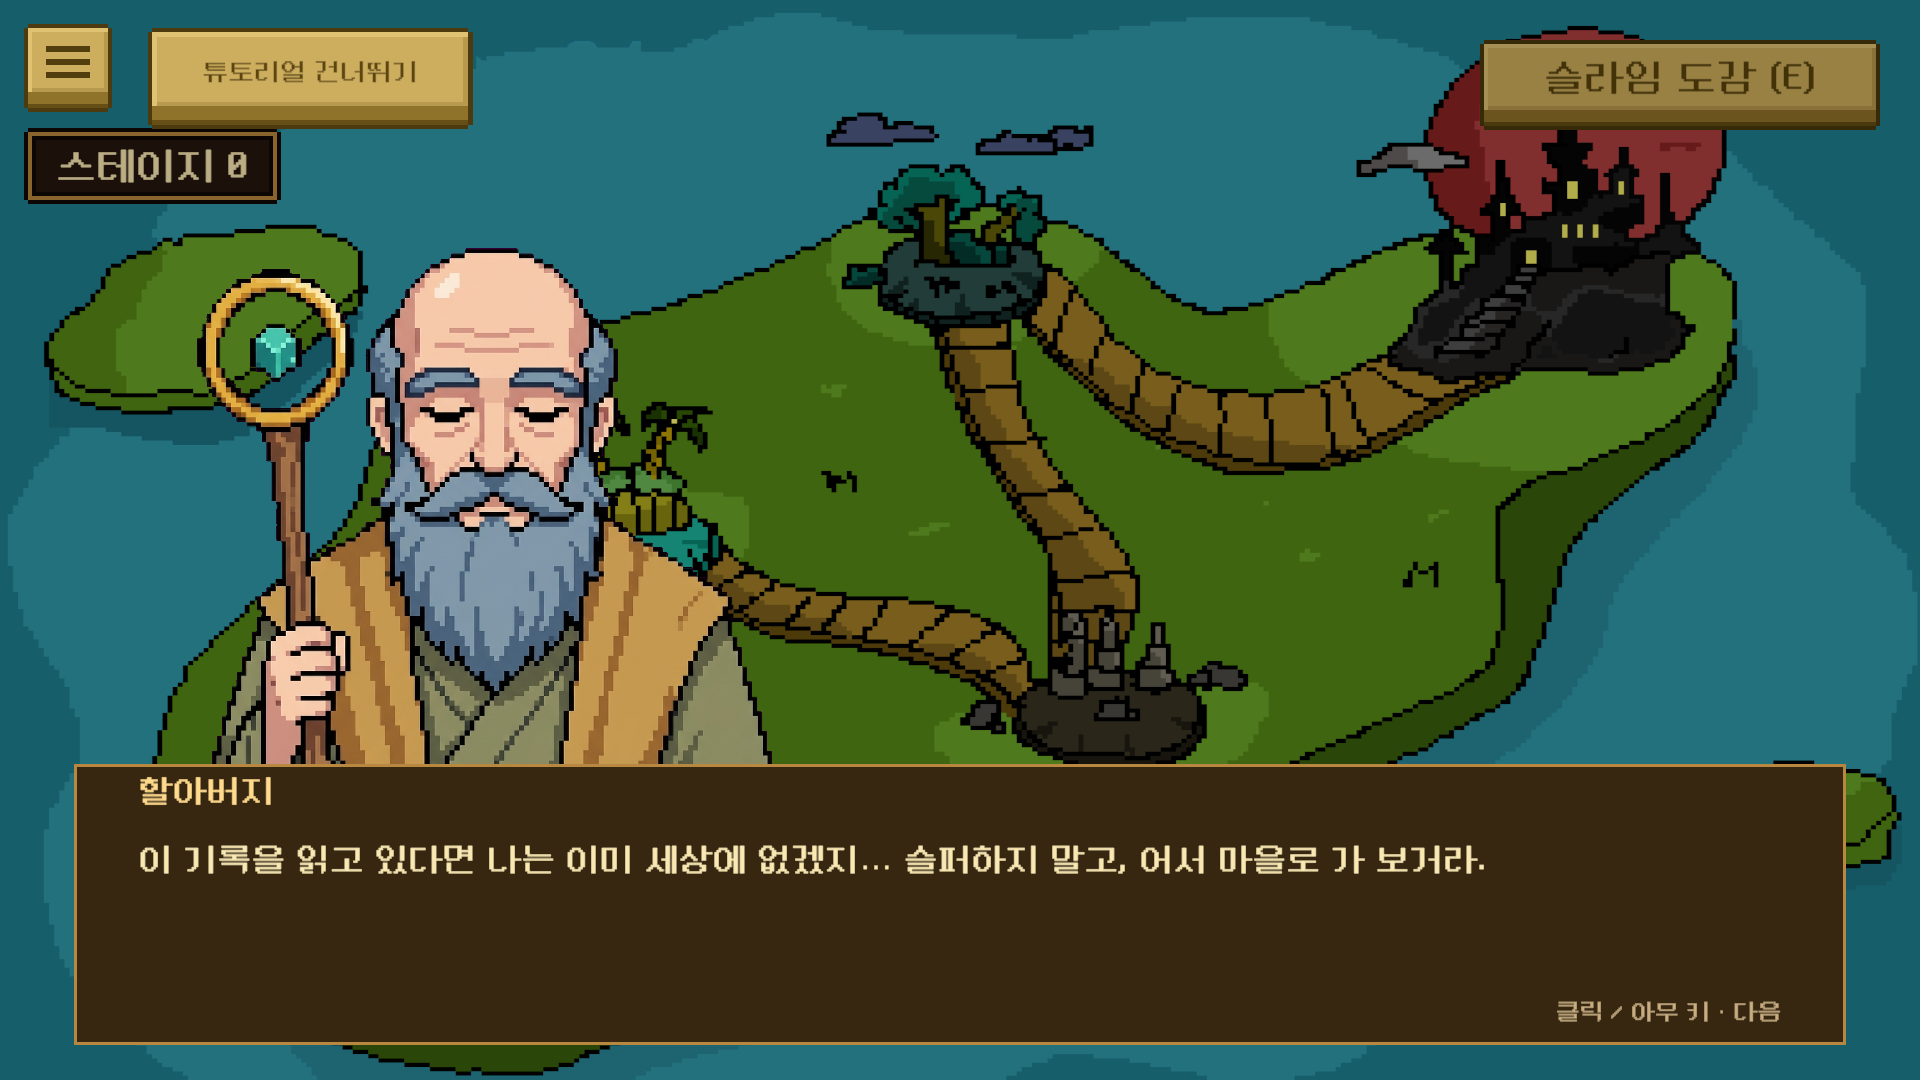
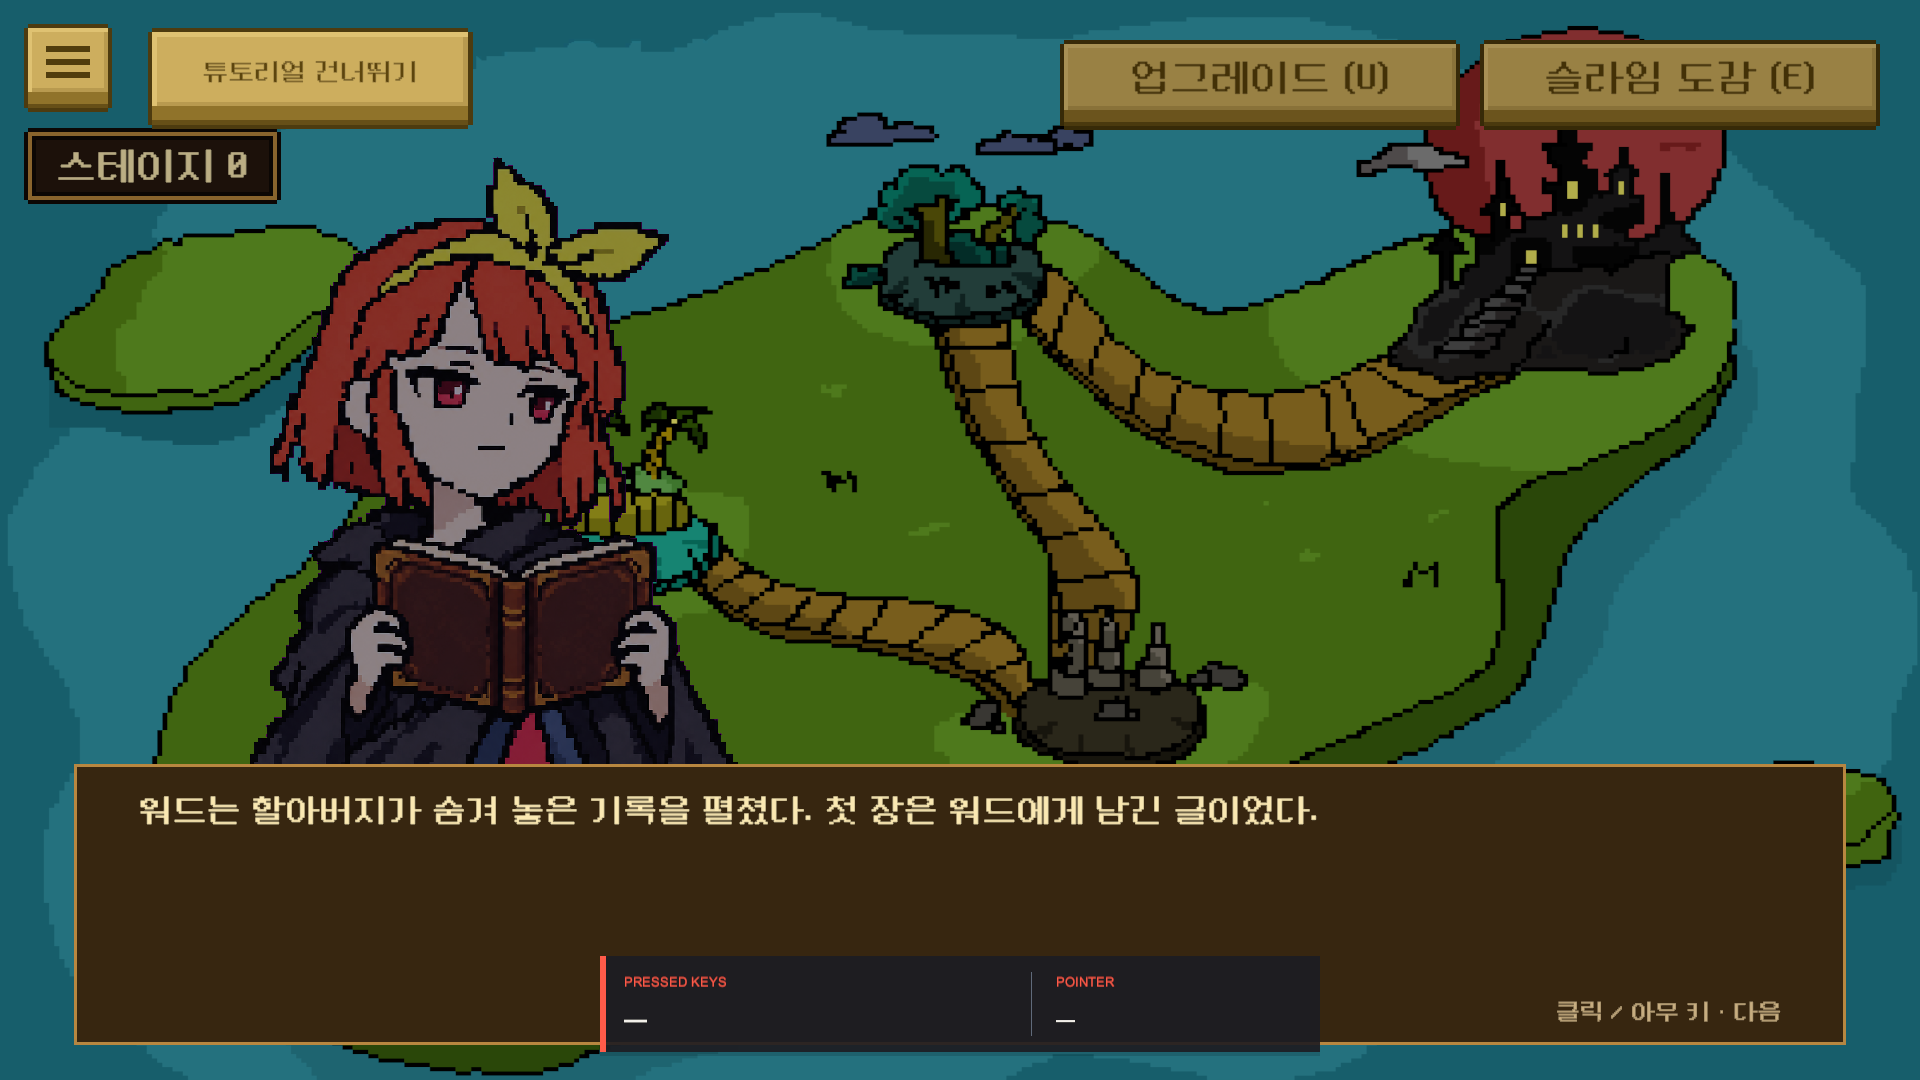
docs: 공통 대화창과 튜토리얼 캡처 갱신

Changed region(s): [[0.0625, 0.1528, 0.7812, 0.825], [0.3125, 0.8861, 0.6875, 0.9778], [0.5312, 0.0306, 0.7812, 0.1222]]

diff --git a/.plan/general/2026-10-27-tutorial-record-speaker.md b/.plan/general/2026-10-27-tutorial-record-speaker.md
@@ -1,0 +1,38 @@
+# 2026-10-27 — 튜토리얼 할아버지 기록 화자 표시
+
+- Date: 2026-10-27
+- GitHub Issue: None (자동 승인 검토에서 외부 이슈 게시 거절)
+- Status: Implemented locally
+
+## Goal
+튜토리얼의 할아버지 기록을 워드의 말과 구분한다.
+
+## Non-goals
+진행 조건 변경, 음악 PR 변경, 머지 및 배포.
+
+## Context / Constraints
+13개 대사의 이름이 비어 있고 워드 초상화가 화자로 강조된다.
+공통 대화창의 이름 표시 및 listenerColor를 재사용한다.
+영문 번역 Grandpa's Notes는 이미 등록되어 있다.
+추가 피드백: 주민 대화 뒤에도 결과 안내 기록이 이어지므로 기록 전체가 끝났다는 표현을 제거한다.
+튜토리얼 마지막은 기초 설명의 마무리와 다음 장 안내로 바꾸고, 주민 대화는 잠시 기록을 되새기는 장면으로 연결한다. 영어 번역도 함께 수정한다.
+외부 이슈 등록 거절로 브랜치/커밋/PR 작업은 보류한다.
+
+## Approach (Checklist)
+- [x] **Step 0: Recon** — 데이터와 공통 대화창, 번역 확인.
+- [x] **Step 1: Implementation** — 13개 화자 이름 지정, 워드 초상화 청자 밝기 적용.
+- [ ] **Step 2: Tests** — 데이터 검증, Unity의 이름 및 초상화 표시 확인.
+- [ ] **Step 3: Rollout / Rollback** — 검토 후 별도 수정 PR, 필요시 해당 변경만 복원.
+
+## Validation
+- **Commands to run:** git diff --check; Unity EditMode TutorialTests 및 PlayMode SharedDialoguePlayTests.
+- **Expected output:** 화자 이름과 초상화 검증 통과. 도입은 이름 숨김, 기록은 화자 표시.
+- **Results:** git diff --check 통과. 13개 화자 지정 및 기존 영어 번역 확인. 기존 EditMode/PlayMode 검증에 이름과 청자 밝기 확인 추가.
+- **Unavailable:** Unity batchmode 실행은 HandleProjectAlreadyOpenInAnotherInstance로 중단. 테스트 결과와 실제 화면 캡처는 확보하지 못함. 열린 에디터의 작업 보호를 위해 종료하거나 잠금을 제거하지 않음.
+
+## Risks & Rollback
+- **Risks:** 실제 화면에서 이름 가독성 확인 필요.
+- **Rollback steps:** TutorialScript.asset의 이름과 TutorialChatWindow.cs의 밝기 변경만 되돌린다.
+
+## Open Questions
+- 외부 이슈/PR 게시 승인 대기.
